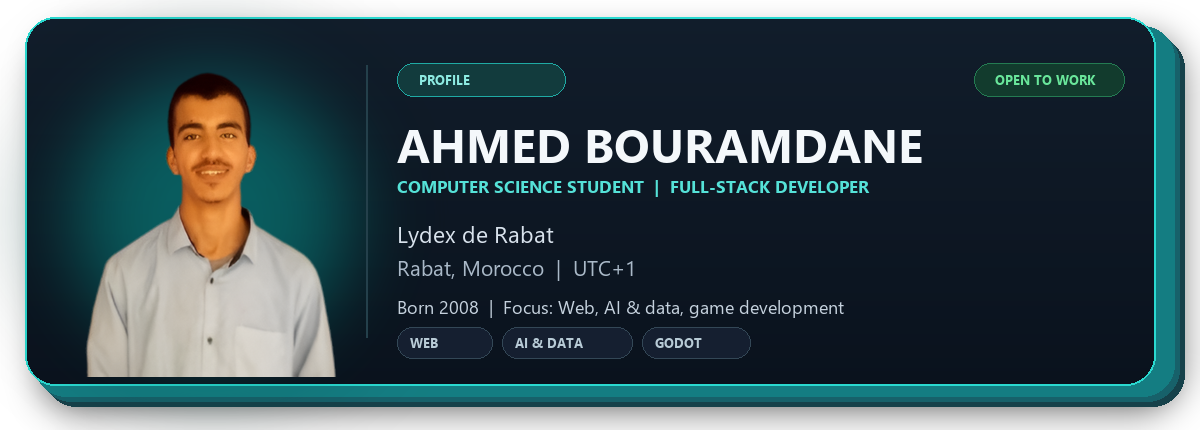
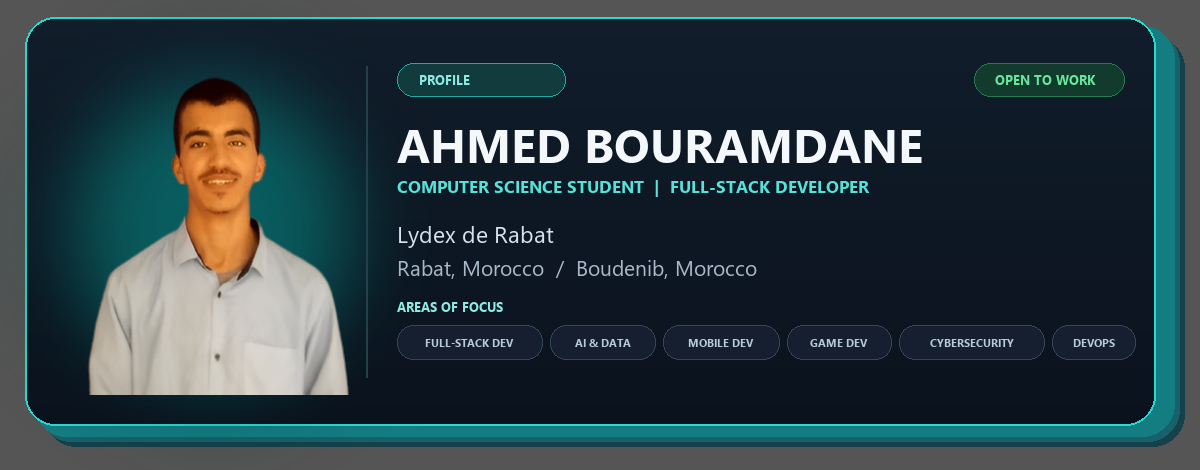
v.1

diff --git a/README.md b/README.md
@@ -7,26 +7,43 @@
 <!-- ============ PERSONAL IDENTITY CARD ============ -->
 
 <p align="center">
-  <img src="./public/identity-card.png" width="100%" alt="Ahmed Bouramdane, computer science student at Lydex de Rabat in Rabat, Morocco. Born in 2008, focused on web development, AI and data, and game development. Open to work."/>
+  <img src="./public/identity-card.png" width="100%" alt="Ahmed Bouramdane, computer science student at Lydex de Rabat. Locations: Rabat, Morocco and Boudenib, Morocco. Open to work. Focus areas: full-stack development, AI and data, mobile development, game development, cybersecurity, and DevOps."/>
 </p>
 
 <!-- ============ PROFILE ============ -->
 
 <p align="center">
   <strong>PROFILE</strong><br/>
-  <img src="https://img.shields.io/badge/Status-Open%20to%20Work-0D1117?style=for-the-badge&labelColor=00FF41&logo=zap&logoColor=00FF41" alt="Status"/>
-  <img src="https://img.shields.io/badge/Focus-Full%20Stack%20%26%20AI-0D1117?style=for-the-badge&labelColor=00FFE0&logo=target&logoColor=00FFE0" alt="Focus"/>
-  <img src="https://img.shields.io/badge/Location-Rabat%2C%20Morocco%20%F0%9F%87%B2%F0%9F%87%A7-0D1117?style=for-the-badge&labelColor=A855F7&logo=mapbox&logoColor=A855F7" alt="Location"/>
-  <img src="https://api.visitorbadge.io/api/visitors?path=ahmedbouramdane&label=Profile%20Views&countColor=%2300FFE0&style=for-the-badge&labelColor=%230D1117" alt="Profile views"/>
+</p>
+
+<table align="center">
+  <tr>
+    <td align="center">
+      <strong>AVAILABILITY</strong><br/>
+      <img src="https://img.shields.io/badge/Open%20to%20Work-0D1117?style=for-the-badge&logo=freelancer&logoColor=00FF41" alt="Open to work"/>
+    </td>
+    <td align="center">
+      <strong>FOCUS</strong><br/>
+      <img src="https://img.shields.io/badge/Full--Stack%20%26%20AI-0D1117?style=for-the-badge&logo=visualstudiocode&logoColor=00FFE0" alt="Full-stack development and AI"/>
+    </td>
+    <td align="center">
+      <strong>LOCATION</strong><br/>
+      <img src="https://img.shields.io/badge/Rabat%2C%20Morocco-0D1117?style=for-the-badge&logo=googlemaps&logoColor=A855F7" alt="Rabat, Morocco"/>
+    </td>
+  </tr>
+</table>
+
+<p align="center">
+  <img src="https://api.visitorbadge.io/api/visitors?path=ahmedbouramdane&label=Profile%20Views&countColor=%2300FFE0&style=flat&labelColor=%230D1117" alt="Profile views"/>
 </p>
 
 <!-- ============ CONNECT ============ -->
 
 <p align="center">
   <strong>CONNECT</strong><br/>
-  <a href="https://github.com/ahmedbouramdane"><img src="https://img.shields.io/badge/GitHub-@ahmedbouramdane-0D1117?style=for-the-badge&labelColor=00FFE0&logo=github&logoColor=00FFE0" alt="GitHub"/></a>
-  <a href="https://linkedin.com/in/ahmedbouramdane"><img src="https://img.shields.io/badge/LinkedIn-Connect-0D1117?style=for-the-badge&labelColor=0A66C2" alt="LinkedIn"/></a>
-  <a href="mailto:ahmed.bouramdane@email.com"><img src="https://img.shields.io/badge/Email-Say%20Hello-0D1117?style=for-the-badge&labelColor=EA4335&logo=gmail&logoColor=white" alt="Email"/></a>
+  <a href="https://github.com/ahmedbouramdane"><img src="https://img.shields.io/badge/GitHub-Profile-0D1117?style=flat&logo=github&logoColor=00FFE0" alt="GitHub profile"/></a>
+  <a href="https://linkedin.com/in/ahmedbouramdane"><img src="https://img.shields.io/badge/LinkedIn-Connect-0D1117?style=flat&logo=linkedin&logoColor=0A66C2" alt="Connect on LinkedIn"/></a>
+  <a href="https://instagram.com/ahmedbouramdane77"><img src="https://img.shields.io/badge/Instagram-Follow-0D1117?style=flat&logo=instagram&logoColor=E4405F" alt="Follow on Instagram"/></a>
 </p>
 
 <!-- ============ EXPLORE ============ -->
@@ -49,20 +66,45 @@
 
 ## About Me
 
+<p align="center">
+  <strong>Computer science student</strong><br/>
+  Building practical software across web, mobile, AI, and interactive projects.
+</p>
+
 <table>
   <tr>
-    <td width="62%" valign="top">
+    <td width="33%" valign="top">
+      <strong>FULL-STACK DEVELOPMENT</strong><br/><br/>
+      Creating complete products, from backend services and APIs to thoughtful web interfaces.
+    </td>
+    <td width="33%" valign="top">
+      <strong>AI &amp; DATA</strong><br/><br/>
+      Exploring data analysis, visualisation, retrieval-augmented generation, and fine-tuning.
+    </td>
+    <td width="33%" valign="top">
+      <strong>MOBILE DEVELOPMENT</strong><br/><br/>
+      Bringing useful, well-designed product experiences to mobile devices.
+    </td>
+  </tr>
+  <tr>
+    <td width="33%" valign="top">
+      <strong>GAME DEVELOPMENT</strong><br/><br/>
+      Prototyping interactive ideas and learning through projects with Godot.
+    </td>
+    <td width="33%" valign="top">
+      <strong>CYBERSECURITY</strong><br/><br/>
+      Building security awareness into the way I learn, design, and develop software.
+    </td>
+    <td width="33%" valign="top">
+      <strong>DEVOPS &amp; DELIVERY</strong><br/><br/>
+      Learning to package, automate, and deliver projects with Docker, Kubernetes, and CI/CD.
+    </td>
+  </tr>
+</table>
 
-I'm **Ahmed Bouramdane**, a computer science enthusiast and a student at **Lydex de Rabat**. I enjoy building useful software end to end, from well-designed APIs and data workflows to polished web experiences.
-
-I value **clear architecture**, **performance**, and **developer experience**. My goal is to turn complex problems and early ideas into reliable, shippable products.
-
-- **Full-stack development** — backend services, REST APIs, and responsive frontends
-- **AI & data** — analysis, visualisation, RAG, and model fine-tuning
-- **Game development** — interactive prototypes with **Godot**
-- **Delivery** — Docker, Kubernetes, and CI/CD
-
-> **What I aim for:** turning complex problems into elegant, reliable software.
+<blockquote>
+  I value clear architecture, performance, and a good developer experience. I like taking an idea from the first sketch to a useful, working product.
+</blockquote>
 
 <div align="center">
   <img src="https://user-images.githubusercontent.com/73097560/115834477-dbab4500-a447-11eb-908a-139a6edaec5c.gif" width="100%" alt="divider"/>
@@ -359,16 +401,17 @@ export default AHMED_BOURAMDANE;
 
 ## 🤝 Let's Connect
 
+Have an opportunity, project idea, or question? Choose a channel below — I'd be happy to hear from you.
+
 <p align="center">
-  <a href="https://github.com/ahmedbouramdane">
-    <img src="https://img.shields.io/badge/GitHub-Explore%20my%20code-0D1117?style=for-the-badge&labelColor=00FFE0&logo=github&logoColor=00FFE0" alt="GitHub"/>
-  </a>
-  <a href="https://linkedin.com/in/ahmedbouramdane">
-    <img src="https://img.shields.io/badge/LinkedIn-Let's%20talk%20work-0D1117?style=for-the-badge&labelColor=0A66C2" alt="LinkedIn"/>
-  </a>
-  <a href="mailto:ahmed.bouramdane@email.com">
-    <img src="https://img.shields.io/badge/Email-Drop%20me%20a%20line-0D1117?style=for-the-badge&labelColor=EA4335&logo=gmail&logoColor=white" alt="Email"/>
-  </a>
+  <a href="mailto:a.bouramdnae.se24@lydex-se.ma"><img src="https://img.shields.io/badge/Email-Say%20hello-0D1117?style=for-the-badge&logo=gmail&logoColor=EA4335" alt="Email Ahmed"/></a>
+  <a href="https://wa.me/212633977491"><img src="https://img.shields.io/badge/WhatsApp-Message%20me-0D1117?style=for-the-badge&logo=whatsapp&logoColor=25D366" alt="Message Ahmed on WhatsApp"/></a>
+  <a href="https://linkedin.com/in/ahmedbouramdane"><img src="https://img.shields.io/badge/LinkedIn-Let's%20connect-0D1117?style=for-the-badge&logo=linkedin&logoColor=0A66C2" alt="Connect with Ahmed on LinkedIn"/></a>
+</p>
+
+<p align="center">
+  <a href="https://github.com/ahmedbouramdane"><img src="https://img.shields.io/badge/GitHub-Explore%20my%20work-0D1117?style=for-the-badge&logo=github&logoColor=00FFE0" alt="Explore Ahmed's GitHub projects"/></a>
+  <a href="https://instagram.com/ahmedbouramdane77"><img src="https://img.shields.io/badge/Instagram-Follow%20along-0D1117?style=for-the-badge&logo=instagram&logoColor=E4405F" alt="Follow Ahmed on Instagram"/></a>
 </p>
 
 <p align="center">
